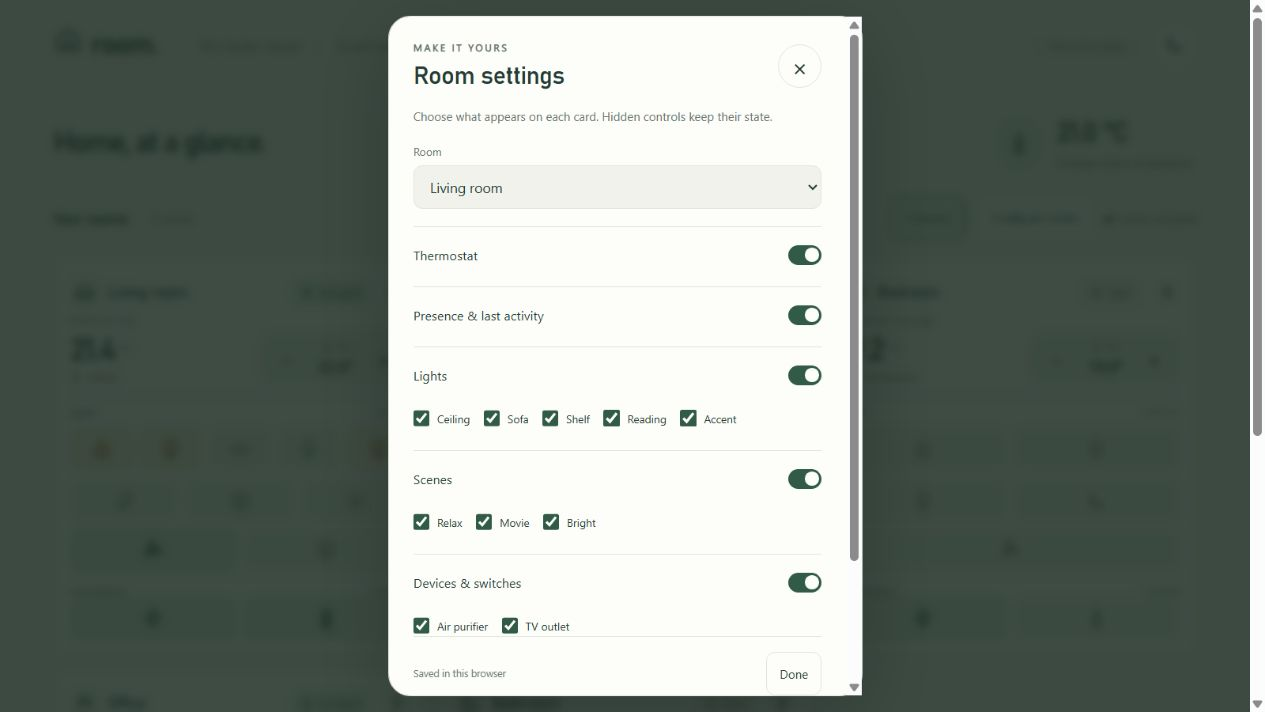
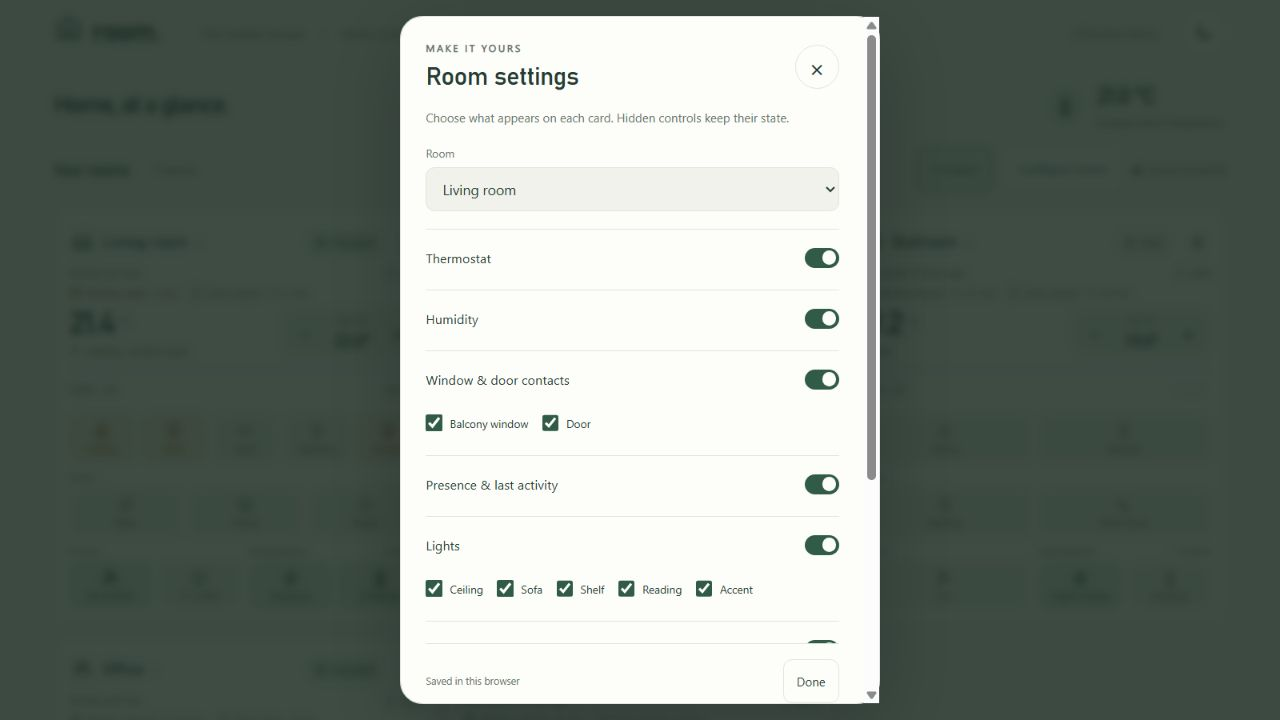
Refine compact room dashboard with contact durations and room details

diff --git a/demo/prototype.js b/demo/prototype.js
@@ -1,4 +1,8 @@
+import { elapsedSince, contactStatus } from './prototype-model.js';
 const paths = {
+  window: '<path d="M3 3h18v18H3zM12 3v18M3 12h18M9 8v1m6-1v1"/>',
+  door: '<path d="M5 21V3h14v18M3 21h18M15 12h.1"/>',
+  droplet: '<path d="M12 2C9 7 5 10 5 15a7 7 0 0 0 14 0c0-5-4-8-7-13Z"/>',
   coffee: '<path d="M4 8h12v8a4 4 0 0 1-4 4H8a4 4 0 0 1-4-4zM16 9h2a3 3 0 0 1 0 6h-2M7 3v2m4-2v2M3 22h15"/>',
   towel: '<path d="M4 3h16v18H4zM4 7h16M8 7v10h8V7M8 14h8"/>',
   automation: '<path d="m13 2-9 12h7l-1 8 10-13h-7z"/>',
@@ -34,15 +38,22 @@ const initial = [
   { name: 'Bathroom', icon: 'bath', floor: 'First floor', current: 22.6, target: 23, presence: false, activity: 'Last activity 34 min ago', lights: [light('Mirror', false, 'strip')], scenes: [['Morning', 'sun'], ['Evening', 'moon']], devices: [device('Towel warmer', true)] },
 ];
 initial.forEach((room, index) => {
+  room.humidity = [46, 51, 44, 42, 64][index];
+  room.hvac = ['heating', 'idle', 'idle', 'heating', 'heating'][index];
+  room.contacts = [
+    { name: index === 0 ? 'Balcony window' : 'Window', type: 'window', open: index === 0, changed: Date.now() - [8, 42, 155, 70, 23][index] * 60000 },
+    { name: 'Door', type: 'door', open: index === 3, changed: Date.now() - [65, 12, 110, 4, 34][index] * 60000 },
+  ];
+  room.lights.forEach(item => { item.brightness = item.on ? 70 : 0; item.available = true; });
   room.automations = [
     device(['Presence lighting', 'Counter auto-off', 'Night routine', 'Workday comfort', 'Mirror auto-off'][index], true, 'automation'),
     device('Heating schedule', index !== 2, 'automation'),
   ];
 });
 let rooms = structuredClone(initial);
-const sectionNames = { thermostat: 'Thermostat', presence: 'Presence & last activity', lights: 'Lights', scenes: 'Scenes', devices: 'Devices & switches', automations: 'Automations' };
+const sectionNames = { thermostat: 'Thermostat', humidity: 'Humidity', contacts: 'Window & door contacts', presence: 'Presence & last activity', lights: 'Lights', scenes: 'Scenes', devices: 'Devices & switches', automations: 'Automations' };
 const storageKey = 'ha-room-prototype-settings-v1';
-const defaults = () => ({ compact: false, rooms: initial.map(() => ({ sections: Object.fromEntries(Object.keys(sectionNames).map(key => [key, true])), hidden: { lights: [], scenes: [], devices: [], automations: [] } })) });
+const defaults = () => ({ compact: true, rooms: initial.map(() => ({ sections: Object.fromEntries(Object.keys(sectionNames).map(key => [key, true])), hidden: { contacts: [], lights: [], scenes: [], devices: [], automations: [] } })) });
 let preferences = defaults();
 try {
   const saved = JSON.parse(localStorage.getItem(storageKey));
@@ -78,28 +89,31 @@ function render() {
   document.body.classList.toggle('compact', preferences.compact);
   document.querySelector('#compact').setAttribute('aria-pressed', String(preferences.compact));
   root.innerHTML = rooms.map((room, index) => {
-    const heating = room.target > room.current;
+    const heating = room.hvac === 'heating';
     const enabled = preferences.rooms[index].sections;
     const lights = visibleItems(room, index, 'lights');
     const scenes = visibleItems(room, index, 'scenes');
     const devices = visibleItems(room, index, 'devices');
     const automations = visibleItems(room, index, 'automations');
-    const hasVisibleContent = enabled.presence || enabled.thermostat || (enabled.lights && lights.length) || (enabled.scenes && scenes.length) || (enabled.devices && devices.length) || (enabled.automations && automations.length);
+    const contacts = visibleItems(room, index, 'contacts');
+    const windowOpen = enabled.contacts && contacts.some(({ item }) => item.type === 'window' && item.open === true);
+    const hasVisibleContent = enabled.presence || enabled.thermostat || enabled.humidity || (enabled.contacts && contacts.length) || (enabled.lights && lights.length) || (enabled.scenes && scenes.length) || (enabled.devices && devices.length) || (enabled.automations && automations.length);
     return `<article class="room-card" data-room="${index}" aria-label="${room.name}">
-      <header class="card-heading"><span class="room-symbol">${icon(room.icon)}</span><div class="room-title"><h3>${room.name}</h3><p>${room.floor}</p></div>${enabled.presence ? `<span class="presence ${room.presence ? 'occupied' : ''}">${icon('person')}${room.presence ? 'Occupied' : 'Clear'}</span>` : ''}<button class="card-settings" data-action="settings" aria-label="Configure ${room.name}">${icon('settings')}</button></header>
-      ${enabled.presence ? `<div class="last-activity">${room.activity}</div>` : ''}
-      ${enabled.thermostat ? `<div class="thermostat"><div><div class="temperature" aria-label="Current temperature ${format(room.current)} degrees Celsius">${format(room.current)}<small>°C</small></div><div class="heat-status ${heating ? 'heating' : ''}">${icon(heating ? 'flame' : 'leaf')}${heating ? 'Heating' : 'At temperature'}</div></div><div class="setpoint"><button data-action="temperature" data-delta="-0.5" aria-label="Decrease ${room.name} target by 0.5 degrees Celsius">−</button><div class="setpoint-center"><span>SET TO</span><strong aria-live="polite">${format(room.target)}°</strong></div><button data-action="temperature" data-delta="0.5" aria-label="Increase ${room.name} target by 0.5 degrees Celsius">+</button></div></div>` : ''}
-      ${enabled.lights && lights.length ? `<section class="control-section" aria-label="Lights"><div class="control-label"><span>Lights</span><span>${lights.filter(({ item }) => item.on).length} of ${lights.length} on</span></div><div class="lights" style="--lights:${lights.length}">${lights.map(({ item, itemIndex }) => `<button class="light ${item.on ? 'on' : ''}" data-action="light" data-index="${itemIndex}" aria-label="${item.name} light in ${room.name}" title="${item.name} · ${item.on ? 'On' : 'Off'}" aria-pressed="${item.on}">${icon(item.type)}<span>${item.name}</span></button>`).join('')}</div></section>` : ''}
-      ${enabled.scenes && scenes.length ? `<section class="scene-section" aria-label="Scenes"><div class="control-label"><span>Scenes</span></div><div class="icon-controls scenes" style="--controls:${scenes.length}">${scenes.map(({ item: [name, symbol], itemIndex }) => `<button class="light state-icon ${room.scene === itemIndex ? 'on' : ''}" data-action="scene" data-index="${itemIndex}" aria-pressed="${room.scene === itemIndex}" title="${name} · ${room.scene === itemIndex ? 'Last selected scene' : 'Activate scene'}" aria-label="${name} scene in ${room.name}">${icon(symbol)}<span>${name}</span></button>`).join('')}</div></section>` : ''}
+      <header class="card-heading"><span class="room-symbol">${icon(room.icon)}</span><div class="room-title"><h3><button class="room-link" data-action="details" aria-label="Open ${room.name} details">${room.name}<span aria-hidden="true">↗</span></button></h3><p>${room.floor}</p></div>${enabled.presence ? `<span class="presence ${room.presence ? 'occupied' : ''}" title="${room.activity}">${icon('person')}${room.presence ? 'Occupied' : 'Clear'}</span>` : ''}<button class="card-settings" data-action="settings" aria-label="Configure ${room.name}">${icon('settings')}</button></header>
+      <div class="room-meta">${enabled.presence ? `<span class="last-activity">${room.activity}</span>` : ''}${enabled.humidity ? `<span class="humidity" aria-label="Humidity ${room.humidity} percent">${icon('droplet')}${room.humidity}%</span>` : ''}</div>
+      ${enabled.contacts && contacts.length ? `<div class="contacts" aria-label="Window and door status">${contacts.map(({ item, itemIndex }) => `<span class="contact ${item.open === true ? 'open' : item.open === false ? '' : 'unavailable'}" title="${item.name}: ${contactStatus(item)} · Last change ${new Date(item.changed).toLocaleString('en-GB')}">${icon(item.type)}<span>${item.type === 'window' ? 'Window' : 'Door'} <strong>${contactStatus(item).toLowerCase()}</strong></span><time data-contact="${index}:${itemIndex}" datetime="${new Date(item.changed).toISOString()}">${elapsedSince(item.changed)}</time></span>`).join('')}</div>` : ''}
+      ${enabled.thermostat ? `<div class="thermostat"><div><div class="temperature" aria-label="Current temperature ${format(room.current)} degrees Celsius">${format(room.current)}<small>°C</small></div><div class="heat-status ${heating ? 'heating' : ''}">${icon(heating ? 'flame' : 'leaf')}${heating ? (windowOpen ? 'Heating · window open' : 'Heating') : 'Idle'}</div></div><div class="setpoint"><button data-action="temperature" data-delta="-0.5" aria-label="Decrease ${room.name} target by 0.5 degrees Celsius">−</button><div class="setpoint-center"><span>SET TO</span><strong aria-live="polite">${format(room.target)}°</strong></div><button data-action="temperature" data-delta="0.5" aria-label="Increase ${room.name} target by 0.5 degrees Celsius">+</button></div></div>` : ''}
+      ${enabled.lights && lights.length ? `<section class="control-section" aria-label="Lights"><div class="control-label"><span>Lights · ${lights.filter(({ item }) => item.available && item.on).length}/${lights.length}${lights.some(({ item }) => !item.available) ? ' · offline' : ''}</span><button class="all-off" data-action="all-off" aria-label="Turn all ${room.name} lights off" ${room.lights.some(item => item.on && item.available) ? '' : 'disabled'}>All off</button></div><div class="lights" style="--lights:${lights.length}">${lights.map(({ item, itemIndex }) => `<button class="light ${!item.available ? 'unavailable' : item.on ? 'on' : ''}" aria-disabled="${!item.available}" data-action="light" data-index="${itemIndex}" aria-label="${item.name} light in ${room.name}" title="${item.name} · ${!item.available ? 'Unavailable' : item.on ? 'On' : 'Off'}" aria-pressed="${item.on}">${icon(item.type)}<span>${!item.available ? 'Offline' : item.name}</span></button>`).join('')}</div></section>` : ''}
+      <div class="secondary-controls">${enabled.scenes && scenes.length ? `<section class="scene-section" aria-label="Scenes"><div class="control-label"><span>Scenes</span></div><div class="icon-controls scenes" style="--controls:${scenes.length}">${scenes.map(({ item: [name, symbol], itemIndex }) => `<button class="light state-icon ${room.scene === itemIndex ? 'on' : ''}" data-action="scene" data-index="${itemIndex}"  title="${name} · ${room.scene === itemIndex ? 'Activated' : 'Activate scene'}" aria-label="${name} scene in ${room.name}">${icon(symbol)}<span>${name}</span></button>`).join('')}</div></section>` : ''}
       ${enabled.devices && devices.length ? `<section class="devices-section" aria-label="Devices and switches"><div class="control-label"><span>Devices</span></div><div class="icon-controls devices" style="--controls:${devices.length}">${devices.map(({ item, itemIndex }) => `<button class="light state-icon ${item.on ? 'on' : ''}" data-action="device" data-index="${itemIndex}" aria-pressed="${item.on}" aria-label="${item.name} in ${room.name}" title="${item.name} · ${item.on ? 'On' : 'Off'}">${icon(item.name === 'TV outlet' ? 'movie' : item.name === 'Monitor' ? 'desk' : item.name === 'Coffee machine' ? 'coffee' : item.name === 'Towel warmer' ? 'towel' : item.type)}<span>${item.name}</span></button>`).join('')}</div></section>` : ''}
-      ${enabled.automations && automations.length ? `<section class="automations-section" aria-label="Automations"><div class="control-label"><span>Automations</span><span>${automations.filter(({ item }) => item.on).length} enabled</span></div><div class="icon-controls automations" style="--controls:${automations.length}">${automations.map(({ item, itemIndex }) => `<button class="light state-icon ${item.on ? 'on' : ''}" data-action="automation" data-index="${itemIndex}" aria-pressed="${item.on}" aria-label="${item.name} automation in ${room.name}" title="${item.name} · ${item.on ? 'Enabled' : 'Disabled'}">${icon(item.name === 'Heating schedule' ? 'thermometer' : 'automation')}<span>${item.name}</span></button>`).join('')}</div></section>` : ''}
-      ${!hasVisibleContent ? '<p class="empty-card">No controls selected. Choose what appears in room settings.</p>' : ''}
+      ${enabled.automations && automations.length ? `<section class="automations-section" aria-label="Automations"><div class="control-label"><span>Automations</span><span>${automations.filter(({ item }) => item.on).length} enabled</span></div><div class="icon-controls automations" style="--controls:${automations.length}">${automations.map(({ item, itemIndex }) => `<button class="light state-icon ${item.on ? 'on' : ''}" data-action="automation" data-index="${itemIndex}" aria-pressed="${item.on}" aria-label="${item.name} automation in ${room.name}" title="${item.name} · ${item.on ? 'Enabled' : 'Disabled'}">${icon(item.name === 'Heating schedule' ? 'thermometer' : 'automation')}<span>${item.name === 'Heating schedule' ? 'Schedule' : item.name.replace(' lighting', '').replace(' auto-off', '').replace(' comfort', '')}</span></button>`).join('')}</div></section>` : ''}
+      </div>${!hasVisibleContent ? '<p class="empty-card">No controls selected. Choose what appears in room settings.</p>' : ''}
     </article>`;
   }).join('') + `<aside class="room-note">${icon('home')}<div><strong>Every room. One rhythm.</strong><p>From a single bedside light to the whole living room. A little space for everything.</p></div></aside>`;
   document.querySelector('#average').textContent = `${format(rooms.reduce((sum, room) => sum + room.current, 0) / rooms.length)} °C`;
   document.querySelector('#active-count').textContent = `${rooms.filter(room => room.presence).length} rooms occupied`;
 }
-root.addEventListener('click', event => {
+root.addEventListener('click', async event => {
   const button = event.target.closest('button[data-action]');
   if (!button) return;
   const roomIndex = Number(button.closest('[data-room]').dataset.room);
@@ -107,11 +121,27 @@ root.addEventListener('click', event => {
   const index = Number(button.dataset.index);
   const action = button.dataset.action;
   if (action === 'settings') { openSettings(roomIndex); return; }
+  if (action === 'details') { openDetails(roomIndex); return; }
+  if (button.getAttribute('aria-disabled') === 'true' || button.getAttribute('aria-busy') === 'true') return;
+  button.setAttribute('aria-busy', 'true');
+  await new Promise(resolve => setTimeout(resolve, 160));
+  if (room.failNext) {
+    room.failNext = false;
+    button.removeAttribute('aria-busy');
+    notify(`${room.name} · Command failed. State unchanged. Please try again.`);
+    return;
+  }
+  if (action === 'all-off') {
+    room.lights.filter(item => item.available).forEach(item => { item.on = false; item.brightness = 0; });
+    notify(`${room.name} · ${room.lights.some(item => !item.available) ? 'Available lights off · Some lights unreachable' : 'All lights off'}`);
+  }
   if (action === 'temperature') {
     room.target = Math.min(30, Math.max(5, room.target + Number(button.dataset.delta)));
     notify(`${room.name} · Set to ${format(room.target)} °C`);
   } else if (action === 'light') {
+    if (!room.lights[index].available) { notify('Light unavailable'); return; }
     room.lights[index].on = !room.lights[index].on;
+    room.lights[index].brightness = room.lights[index].on ? 70 : 0;
     room.scene = undefined;
   } else if (action === 'device') {
     room.devices[index].on = !room.devices[index].on;
@@ -122,13 +152,19 @@ root.addEventListener('click', event => {
     room.scene = index;
     const sceneName = room.scenes[index][0];
     const bright = ['Bright', 'Cooking', 'Morning', 'Focus'].includes(sceneName);
-    room.lights.forEach((item, position) => { item.on = bright || position === 0; });
+    room.lights.filter(item => item.available).forEach((item, position) => { item.on = bright || position === 0; item.brightness = item.on ? (bright ? 100 : 35) : 0; });
     notify(`${room.name} · ${sceneName} scene activated`);
+    setTimeout(() => {
+      if (room.scene === index) {
+        room.scene = undefined;
+        root.querySelectorAll(`[data-room="${roomIndex}"] [data-action="scene"]`).forEach(element => { element.classList.remove('on'); element.title = `${room.scenes[Number(element.dataset.index)][0]} · Activate scene`; });
+      }
+    }, 1400);
   }
   const delta = button.dataset.delta;
   render();
   // Preserve keyboard focus when replacing simulated state.
-  const selector = delta ? `[data-delta="${delta}"]` : `[data-index="${index}"]`;
+  const selector = delta ? `[data-delta="${delta}"]` : button.dataset.index !== undefined ? `[data-index="${index}"]` : '';
   root.querySelector(`[data-room="${roomIndex}"] [data-action="${action}"]${selector}`)?.focus({ preventScroll: true });
 });
 document.querySelector('#brand-icon').innerHTML = icon('home');
@@ -180,4 +216,57 @@ document.querySelector('#close-settings').addEventListener('click', () => settin
 document.querySelector('#done-settings').addEventListener('click', () => settings.close());
 document.querySelector('#compact').addEventListener('click', () => { preferences.compact = !preferences.compact; savePreferences(); render(); });
 document.querySelector('#reset').addEventListener('click', () => { rooms = structuredClone(initial); preferences = defaults(); savePreferences(); render(); notify('Demo and room settings reset'); });
+
+const details = document.querySelector('#room-details');
+let detailRoom = 0;
+function renderDetails() {
+  const room = rooms[detailRoom];
+  document.querySelector('#details-title').textContent = room.name;
+  document.querySelector('#details-content').innerHTML = `
+    <div class="detail-summary"><strong>${format(room.current)} °C</strong><span>Target ${format(room.target)} °C · Humidity ${room.humidity}%</span></div>
+    <section class="detail-section"><h3>Window & door contacts</h3>${room.contacts.map((contact, index) => `<div class="detail-contact ${contact.open === true ? 'open' : ''}">${icon(contact.type)}<div><strong>${contact.name}</strong><span>${contactStatus(contact)} · ${elapsedSince(contact.changed)}${contact.open === null ? ' since last update' : ''}</span></div><time datetime="${new Date(contact.changed).toISOString()}">${new Date(contact.changed).toLocaleTimeString('en-GB',{hour:'2-digit',minute:'2-digit'})}</time></div>`).join('')}</section>
+    <section class="detail-section"><h3>Lighting</h3>${room.lights.map((item, index) => `<label class="dimmer"><span>${item.name}${!item.available ? ' · Unavailable' : ''}</span><output id="brightness-${index}">${item.brightness}%</output><input type="range" min="0" max="100" step="5" value="${item.brightness}" data-brightness="${index}" aria-label="${item.name} brightness" ${!item.available ? 'disabled' : ''}></label>`).join('')}</section>
+    <section class="detail-section"><div class="chart-label"><h3>Temperature</h3><span>Illustrative demo · 6 hours</span></div><svg class="temperature-chart" viewBox="0 0 320 60" aria-label="Illustrative simulated temperature history; not measured data" role="img"><path d="M0 46 30 43 60 47 90 35 120 37 150 28 180 33 210 21 240 23 270 15 300 19 320 13"/></svg></section>
+    <details class="demo-tools"><summary>Simulate sensor & service changes</summary><p>Preview only. Contacts are read-only on the room cards.</p>${room.contacts.map((contact,index) => `<label class="item-option"><input type="checkbox" data-demo-contact="${index}" ${contact.open === true ? 'checked' : ''}>${contact.name} open</label>`).join('')}<label class="item-option"><input type="checkbox" id="demo-offline" ${!room.lights[0].available ? 'checked' : ''}>First light unreachable</label><label class="item-option"><input type="checkbox" id="demo-failure" ${room.failNext ? 'checked' : ''}>Fail the next card command</label></details>`;
+}
+function openDetails(index) { detailRoom = index; renderDetails(); details.showModal(); }
+document.querySelector('#close-details').addEventListener('click', () => details.close());
+document.querySelector('#details-content').addEventListener('input', event => {
+  if (event.target.dataset.brightness === undefined) return;
+  const index = Number(event.target.dataset.brightness);
+  const item = rooms[detailRoom].lights[index];
+  if (!item.available) return;
+  item.brightness = Number(event.target.value);
+  item.on = item.brightness > 0;
+  rooms[detailRoom].scene = undefined;
+  document.querySelector(`#brightness-${index}`).textContent = `${item.brightness}%`;
+  render();
+});
+document.querySelector('#details-content').addEventListener('change', event => {
+  const room = rooms[detailRoom];
+  if (event.target.dataset.demoContact !== undefined) {
+    const contact = room.contacts[Number(event.target.dataset.demoContact)];
+    contact.open = event.target.checked;
+    contact.changed = Date.now();
+    render();
+    const row = document.querySelectorAll('.detail-contact')[Number(event.target.dataset.demoContact)];
+    row.classList.toggle('open', contact.open);
+    row.querySelector('div>span').textContent = `${contactStatus(contact)} · just now`;
+    row.querySelector('time').textContent = new Date(contact.changed).toLocaleTimeString('en-GB',{hour:'2-digit',minute:'2-digit'});
+    row.querySelector('time').dateTime = new Date(contact.changed).toISOString();
+  } else if (event.target.id === 'demo-offline') { room.lights[0].available = !event.target.checked; render(); }
+  else if (event.target.id === 'demo-failure') room.failNext = event.target.checked;
+});
+setInterval(() => {
+  document.querySelectorAll('[data-contact]').forEach(element => {
+    const [roomIndex, contactIndex] = element.dataset.contact.split(':').map(Number);
+    element.textContent = elapsedSince(rooms[roomIndex].contacts[contactIndex].changed);
+  });
+  if (details.open) document.querySelectorAll('.detail-contact').forEach((row, index) => {
+    const contact = rooms[detailRoom].contacts[index];
+    row.querySelector('div>span').textContent = `${contactStatus(contact)} · ${elapsedSince(contact.changed)}${contact.open === null ? ' since last update' : ''}`;
+  });
+}, 30000);
+details.addEventListener('close', () => root.querySelector(`[data-room="${detailRoom}"] [data-action="details"]`)?.focus({ preventScroll: true }));
+settings.addEventListener('close', () => root.querySelector(`[data-room="${roomSelect.value}"] [data-action="settings"]`)?.focus({ preventScroll: true }));
 render();

diff --git a/demo/prototype.css b/demo/prototype.css
@@ -20,3 +20,13 @@ dialog{width:min(480px,calc(100% - 24px));max-height:calc(100dvh - 32px);margin:
 .compact .icon-controls.automations{gap:6px}
 .compact .icon-controls .state-icon{min-height:44px;padding:5px}
 .compact .icon-controls .state-icon span{display:none}
+/* Quiet density: sensor facts stay small; primary actions retain full touch targets. */
+.room-link{display:flex;align-items:center;gap:6px;min-height:44px;border:0;background:transparent;padding:0;font:inherit;text-align:left}.room-link>span{font:12px 'Room Sans',sans-serif;color:var(--muted)}
+.room-meta{display:flex;align-items:center;justify-content:space-between;gap:10px;min-height:19px;color:var(--muted);font-size:11px}.room-meta .last-activity{margin:0;font-size:11px}.humidity{display:flex;align-items:center;gap:4px}.humidity svg{width:12px;height:12px}
+.contacts{display:flex;flex-wrap:wrap;gap:5px 12px;margin:5px 0 8px}.contact{display:flex;align-items:center;gap:4px;font-size:10px;color:var(--muted);white-space:nowrap}.contact svg{width:13px;height:13px}.contact strong{font-weight:500}.contact time{margin-left:2px;font-variant-numeric:tabular-nums;opacity:.85}.contact.open{color:var(--orange)}.contact.unavailable{color:var(--muted);text-decoration:underline dotted}
+.secondary-controls{display:grid;grid-template-columns:repeat(2,minmax(0,1fr));gap:9px 10px}.secondary-controls>.scene-section{grid-column:1/-1}.secondary-controls .automations-section{margin:0;padding:0;border:0}.secondary-controls .devices-section>.control-label{margin-bottom:6px}.secondary-controls .automations-section>.control-label{margin-bottom:6px}.secondary-controls .scenes{margin:0}.secondary-controls .devices{margin:0}.secondary-controls .control-label{font-size:10px}.secondary-controls .control-label span:last-child{font-size:10px}
+.light.unavailable{border:1px dashed var(--muted);color:var(--muted);background:var(--surface)}.light.unavailable svg{opacity:.45}.light[aria-busy=true]{opacity:.5;cursor:progress}.all-off{min-height:44px;border:0;padding:0 8px;background:transparent;border-radius:8px;color:var(--muted);font-size:11px}.all-off:hover{color:var(--ink);background:var(--soft)}.all-off:disabled{opacity:.4;cursor:default}.control-section>.control-label{margin-bottom:4px;min-height:28px;margin-top:-8px}
+.compact .topbar{height:66px}.compact .intro{padding:17px 0 18px}.compact h1{font-size:25px}.compact .home-summary strong{font-size:23px}.compact .summary-icon{height:39px;width:35px}.compact .home-summary div>span{font-size:10px}.compact .room-card{padding:12px 14px}.compact .room-symbol{width:27px;height:27px}.compact .card-heading{gap:7px}.compact .room-title h3{font-size:16px}.compact .presence{font-size:10px;padding:5px 6px}.compact .room-meta{min-height:17px}.compact .room-meta .last-activity{font-size:10px;margin:0}.compact .thermostat{margin:6px 0 10px}.compact .temperature{font-size:32px}.compact .heat-status{font-size:10px;line-height:1.3}.compact .setpoint{padding:0}.compact .setpoint-center{min-width:48px}.compact .control-section{padding-top:6px}.compact .control-label{font-size:10px}.compact .light,.compact .icon-controls .state-icon{min-height:55px;padding:6px 2px;gap:4px}.compact .light span,.compact .icon-controls .state-icon span{display:block;font-size:10px;line-height:1.2}.compact .light svg{width:19px;height:19px}.compact .lights{margin-bottom:9px}.compact .secondary-controls .control-label{display:flex;margin-bottom:5px}.compact .secondary-controls{gap:8px}.compact .secondary-controls .scenes{margin:0}.compact .secondary-controls .devices{margin:0}.compact .secondary-controls .automations-section{margin:0;padding:0;border:0}.compact .secondary-controls .automations .control-label{margin:0}.compact .secondary-controls .control-label>span:last-child{font-size:9px}.compact .icon-controls .state-icon span{padding:0 1px}.compact .secondary-controls .state-icon{min-height:55px}
+.detail-summary{display:flex;flex-wrap:wrap;align-items:center;gap:8px 14px;margin:20px 0}.detail-summary strong{font:500 28px 'Room Display',sans-serif}.detail-summary>span{font-size:12px;color:var(--muted)}.detail-section{border-top:1px solid var(--line);padding:16px 0}.detail-section h3{font-size:12px;font-weight:600;margin:0 0 10px}.detail-contact{display:flex;align-items:center;gap:10px;min-height:49px;color:var(--muted)}.detail-contact.open{color:var(--orange)}.detail-contact>div{flex:1}.detail-contact strong{display:block;font-size:12px;font-weight:500;color:var(--ink)}.detail-contact span{display:block;margin-top:4px;font-size:11px}.detail-contact time{font-size:11px}.dimmer{display:grid;grid-template-columns:1fr auto;gap:4px;font-size:12px;margin-top:14px}.dimmer output{color:var(--muted);font-variant-numeric:tabular-nums}.dimmer input{grid-column:1/-1;width:100%;min-height:44px;accent-color:var(--green);margin:0}.chart-label{display:flex;justify-content:space-between;gap:10px}.chart-label>span{font-size:10px;color:var(--muted)}.temperature-chart{width:100%;height:60px;stroke:var(--green);stroke-width:2}.demo-tools{border-top:1px solid var(--line);padding-top:12px;color:var(--muted)}.demo-tools summary{font-size:11px;cursor:pointer;min-height:44px;display:flex;align-items:center}.demo-tools summary:before{content:'+';margin-right:8px}.demo-tools[open] summary:before{content:'−'}.demo-tools p{font-size:11px;line-height:1.5;margin:0 0 8px}.demo-tools .item-option{font-size:12px}
+@media(max-width:650px){.compact .section-heading{gap:8px;margin-bottom:10px}.compact .intro{padding:16px 0}.compact .room-card{padding:10px 12px}.compact .view-controls .toolbar-button{min-height:44px}.contacts{gap:5px 10px}.compact .secondary-controls .control-label>span:last-child{font-size:9px}}
+.compact .light,.compact .icon-controls .state-icon,.compact .secondary-controls .state-icon{min-height:48px;padding:4px 2px;gap:3px}.compact .light svg{width:18px;height:18px}.setpoint button[aria-busy=true],.all-off[aria-busy=true]{opacity:.5;cursor:progress}body:has(dialog[open]){overflow:hidden}

diff --git a/test/prototype-model.test.js b/test/prototype-model.test.js
@@ -1,0 +1,21 @@
+import { test } from 'node:test';
+import assert from 'node:assert/strict';
+import { elapsedSince, contactStatus } from '../demo/prototype-model.js';
+
+test('contact duration handles minute, hour and day boundaries', () => {
+  const now = 2000000000;
+  assert.equal(elapsedSince(now - 59000, now), 'just now');
+  assert.equal(elapsedSince(now - 60000, now), '1 min');
+  assert.equal(elapsedSince(now - 65 * 60000, now), '1 h 5 min');
+  assert.equal(elapsedSince(now - 24 * 3600000, now), '1 d');
+  assert.equal(elapsedSince(now - 25 * 3600000, now), '1 d 1 h');
+});
+test('clock skew and missing timestamps do not produce misleading durations', () => {
+  assert.equal(elapsedSince(200, 100), 'just now');
+  assert.equal(elapsedSince(undefined), 'time unknown');
+});
+test('an unavailable contact is distinct from a closed contact', () => {
+  assert.equal(contactStatus({ open: true }), 'Open');
+  assert.equal(contactStatus({ open: false }), 'Closed');
+  assert.equal(contactStatus({ open: null }), 'Unavailable');
+});

diff --git a/demo/index.html b/demo/index.html
@@ -32,6 +32,10 @@
     <div id="settings-content"></div>
     <div class="settings-footer"><span id="save-status" role="status">Saved in this browser</span><button id="done-settings" class="toolbar-button">Done</button></div>
   </dialog>
+  <dialog id="room-details" aria-labelledby="details-title">
+    <div class="settings-heading"><div><p class="eyebrow">A CLOSER LOOK</p><h2 id="details-title">Room details</h2></div><button id="close-details" class="icon-button" aria-label="Close room details">×</button></div>
+    <div id="details-content"></div>
+  </dialog>
   <script type="module" src="/demo/prototype.js"></script>
 </body>
 </html>

diff --git a/demo/prototype-model.js b/demo/prototype-model.js
@@ -1,0 +1,13 @@
+export function elapsedSince(timestamp, now = Date.now()) {
+  if (!Number.isFinite(timestamp)) return 'time unknown';
+  const minutes = Math.max(0, Math.floor((now - timestamp) / 60000));
+  if (!minutes) return 'just now';
+  if (minutes < 60) return `${minutes} min`;
+  const hours = Math.floor(minutes / 60);
+  if (hours < 24) return `${hours} h${minutes % 60 ? ` ${minutes % 60} min` : ''}`;
+  return `${Math.floor(hours / 24)} d${hours % 24 ? ` ${hours % 24} h` : ''}`;
+}
+
+export function contactStatus(contact) {
+  return contact.open === true ? 'Open' : contact.open === false ? 'Closed' : 'Unavailable';
+}

diff --git a/README.md b/README.md
@@ -6,7 +6,9 @@ Use **Compact** above the grid for a denser layout. **Configure rooms**, or the 
 
 The installable `src/` and `dist/` card remains the initial entity-display starter. The room prototype is not yet connected to Home Assistant services or the configuration editor.
 
-Lights, devices, scenes and automations share clickable icon tiles. Active lights use warm amber; enabled devices/automations and the last selected scene use green, with muted icons for inactive controls. Standard view includes captions; compact view uses icons with hover titles and accessible names. Scenes are actions: their highlight indicates the last selection, not a measured on/off state.
+Lights, devices, scenes and automations share clickable icon tiles with short captions, including in compact view. Active lights use warm amber; enabled devices/automations use green. Scenes briefly flash as activated and do not indicate a persistent on/off state. Devices and automations share a row to keep the cards compact.
+
+Optional humidity and individual window/door contacts appear as small status facts. Each contact shows open/closed and elapsed time since its state change, updated every 30 seconds; full timestamps appear on hover and in room details. A heating/window-open hint uses the simulated HVAC action, independently of the target temperature. Click a room name for contact details, brightness sliders and an explicitly illustrative temperature history. **All off** switches off all available room lights, including hidden lights. Unavailable lights have a separate dashed appearance; a failed command preserves state. The collapsed simulation tools in room details can change contacts, make a light unreachable or fail the next card command. These remain local demonstrations, without live Home Assistant calls.
 
 ## Install with HACS
 

diff --git a/AGENTS.md b/AGENTS.md
@@ -2,6 +2,7 @@
 
 - Build a compact room dashboard reusable across a home: thermostat with current/target temperature and ± controls (default 0.5 °C), 1–5 icon light toggles, scenes, presence with last activity, and device/switch toggles. The current requested deliverable is the optical, interactive prototype in demo/, using clearly labeled simulated data. src/ remains the baseline HA starter; demo behavior does not establish live device support. Do not hard-code a user's real entities.
 - Preserve the optional compact layout, per-room section/item visibility settings and automation enable/disable controls. Browser storage persists display preferences only; device and automation states remain simulated. Hiding a control must not change its state.
+- Keep humidity and window/door state durations small on the cards; expose dimmers, contact timestamps and the illustrative temperature chart in room details. Scenes are momentary actions. Unavailable controls and failed commands must not masquerade as off/successful state. HVAC activity is independent of the target/current temperature comparison.
 - Read docs/working-guide.md before modifying editor, device actions or releases. Keep verified new lessons there.
 - Keep the UI and documentation in English; respond in the user's language. Use Home Assistant themes, accessible names, keyboard focus, 44px targets and reduced-motion support.
 - Implement the requested device controls from actual supported features and exact service parameters. The starter only displays state and opens more-info. Do not infer device behavior from a different integration.
